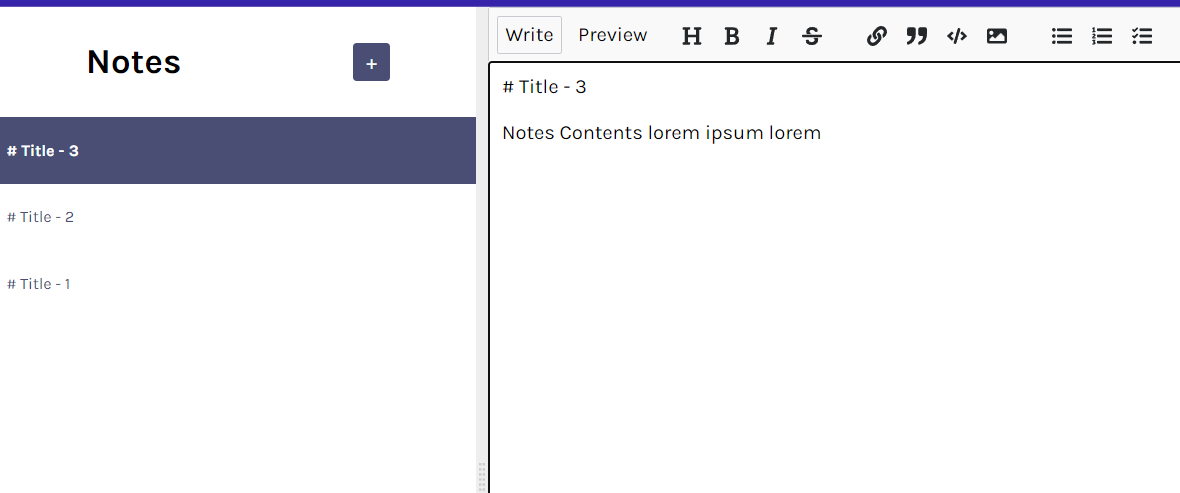
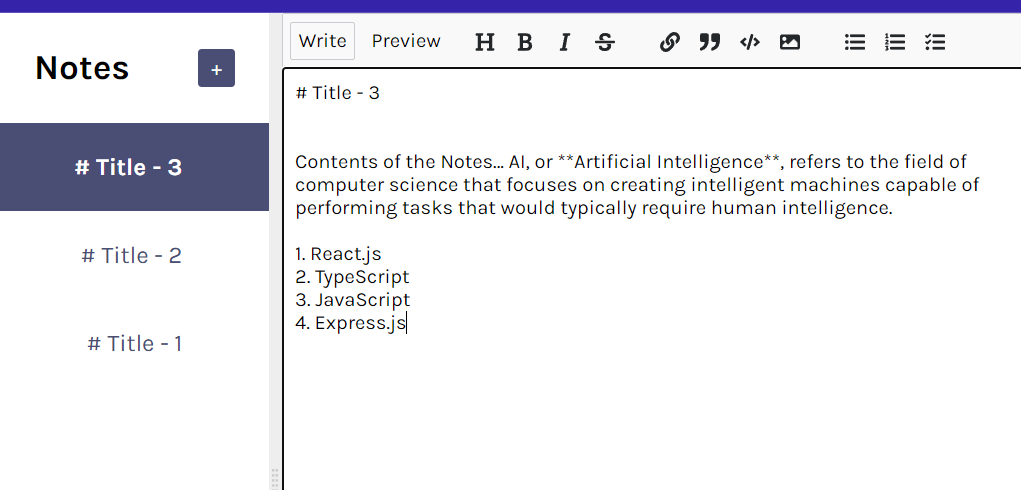
styled editor

diff --git a/src/css/style.css b/src/css/style.css
@@ -92,7 +92,7 @@ button:focus {
 
 .text-snippet {
   padding-inline: 5px;
-  font-size: 0.8rem;
+  font-size: 1rem;
   font-weight: 400;
   line-height: 1.2rem;
   color: #4a4e74;
